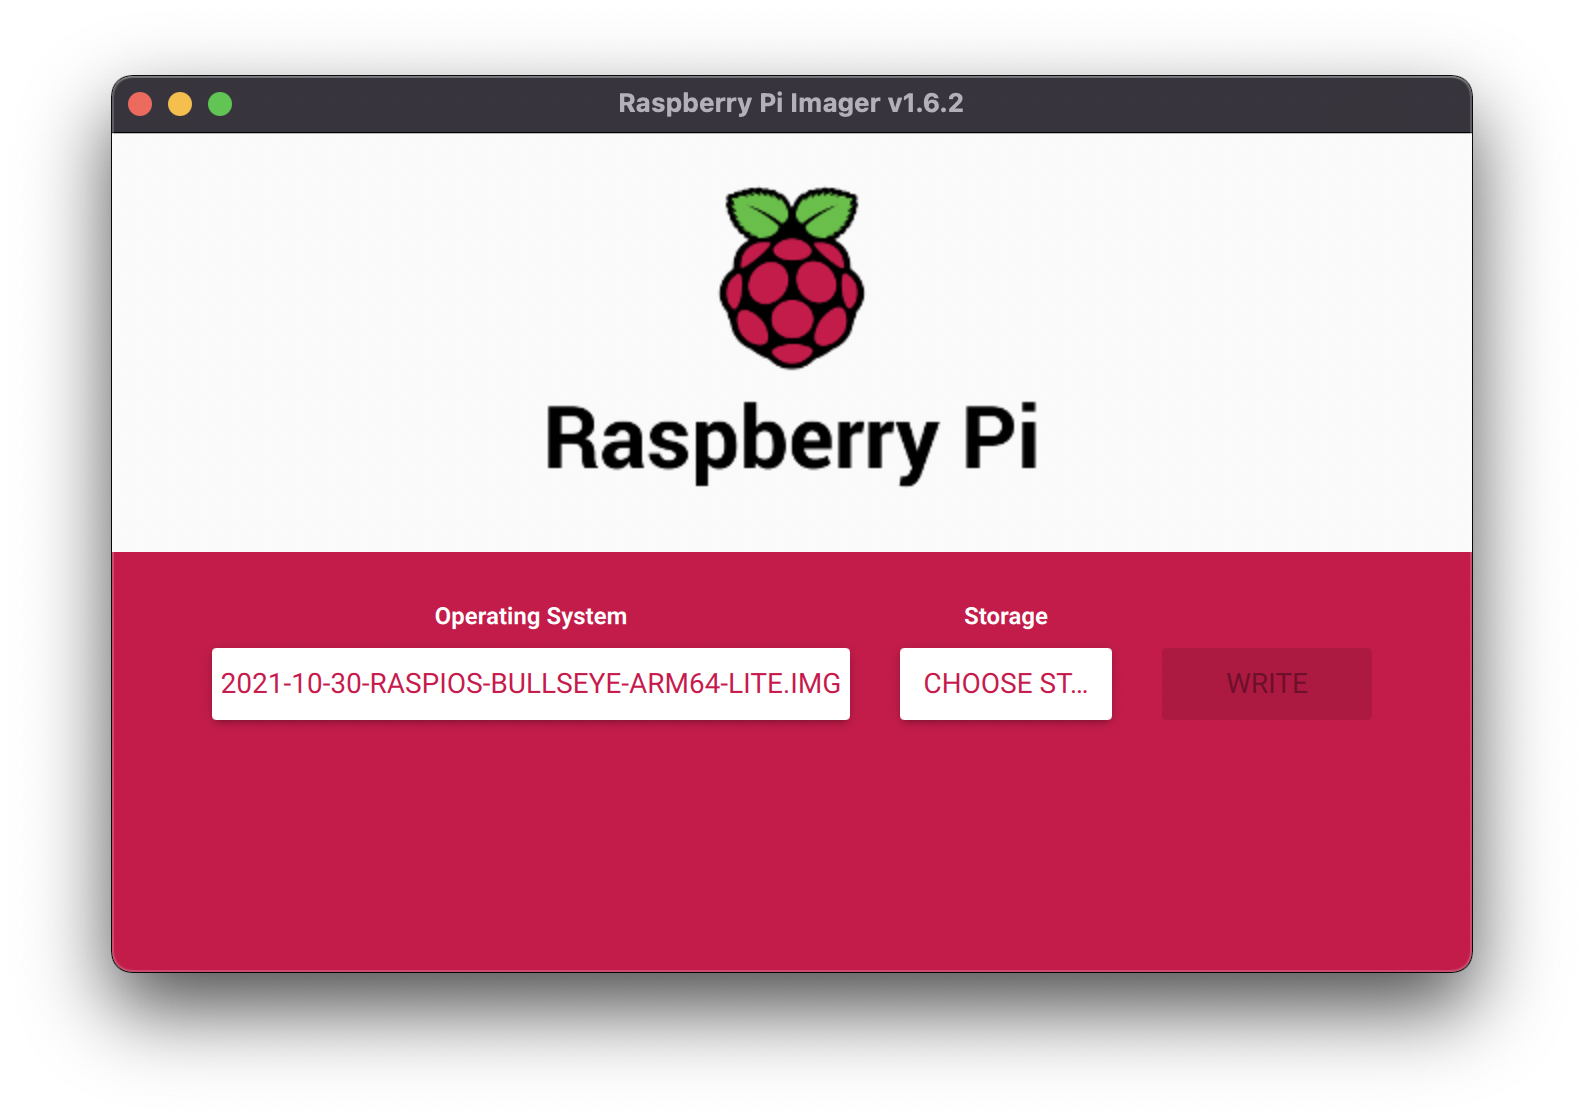
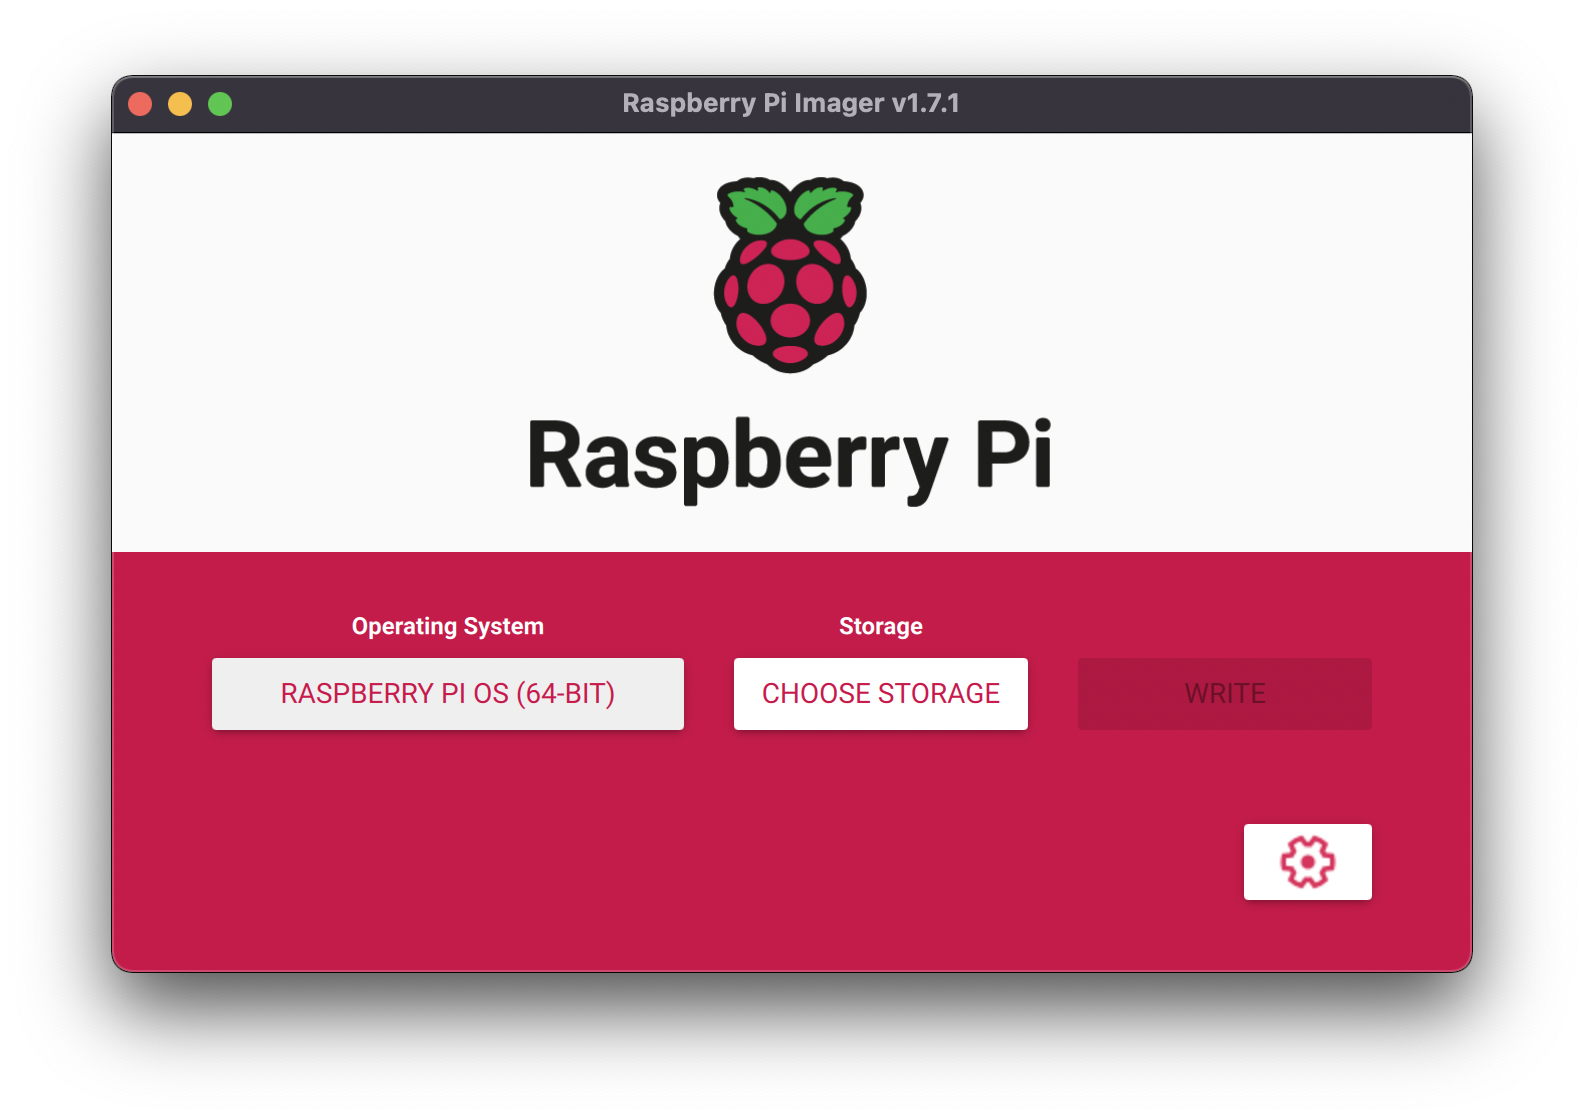
update for not needing anoying 64bit process

diff --git a/docs/tutorials/install-on-pi.md b/docs/tutorials/install-on-pi.md
@@ -24,22 +24,11 @@ If the line of output which reads “Architecture:     <value>” has a value wh
 ## Installing Raspian on the Raspberry Pi
 A Raspberry Pi boots from a microSD card. Our first step is to set up a linux installation on that microSD card. Connect the microSD card to your computer.
 
-Since we need a 64-bit version of linux, you’ll need to download the raspberry pi OS 64-bit beta image [here](https://downloads.raspberrypi.org/raspios_lite_arm64/images/).
-![top-level-64-bit](img/top-level-64-bit.png)
+Select `CHOOSE OS`.  Since we need a 64-bit version of linux, you’ll need to select it from the `Rapsberry Pi OS (other)` menu.
+![imager-select-custom-os](img/select-other-rpi.png)
 
-Select and click on the most recent folder listed:
-![single-version-64-bit](img/single-version-64-bit.png)
-
-Select and download the `.zip` file. Unzip the `.zip` file by double clicking it in your Downloads folder. This should result in a `.img` file.
-
-We’ll be using the Raspberry Pi Imager to flash the microSD card. If you do not already have the Raspberry Pi Imager, you can download it following the install instructions [here](https://www.raspberrypi.com/software/). After successful installation, connect your microSD card to your computer and launch the Raspberry Pi Imager. You should be greeted with a window that looks like:  
-![imager-launch-screen](img/imager-launch-screen.png)
-
-Select `CHOOSE OS`. Then, scroll to the bottom and select `Use custom`:
-![imager-select-custom-os](img/imager-select-custom-os.png)
-
-Navigate to and select the 64-bit raspios image (`.img` file) you downloaded earlier:
-![imager-select-file](img/imager-select-file.png)
+Then select the entry titled `Raspberry Pi OS (64-bit)`.
+![select-other-rpi](img/select-rpi-64.png)
 
 This should return you to the initial screen. Now we need to pick our storage medium, so click `CHOOSE STORAGE`:
 ![imager-selected-os](img/imager-selected-os.png)
